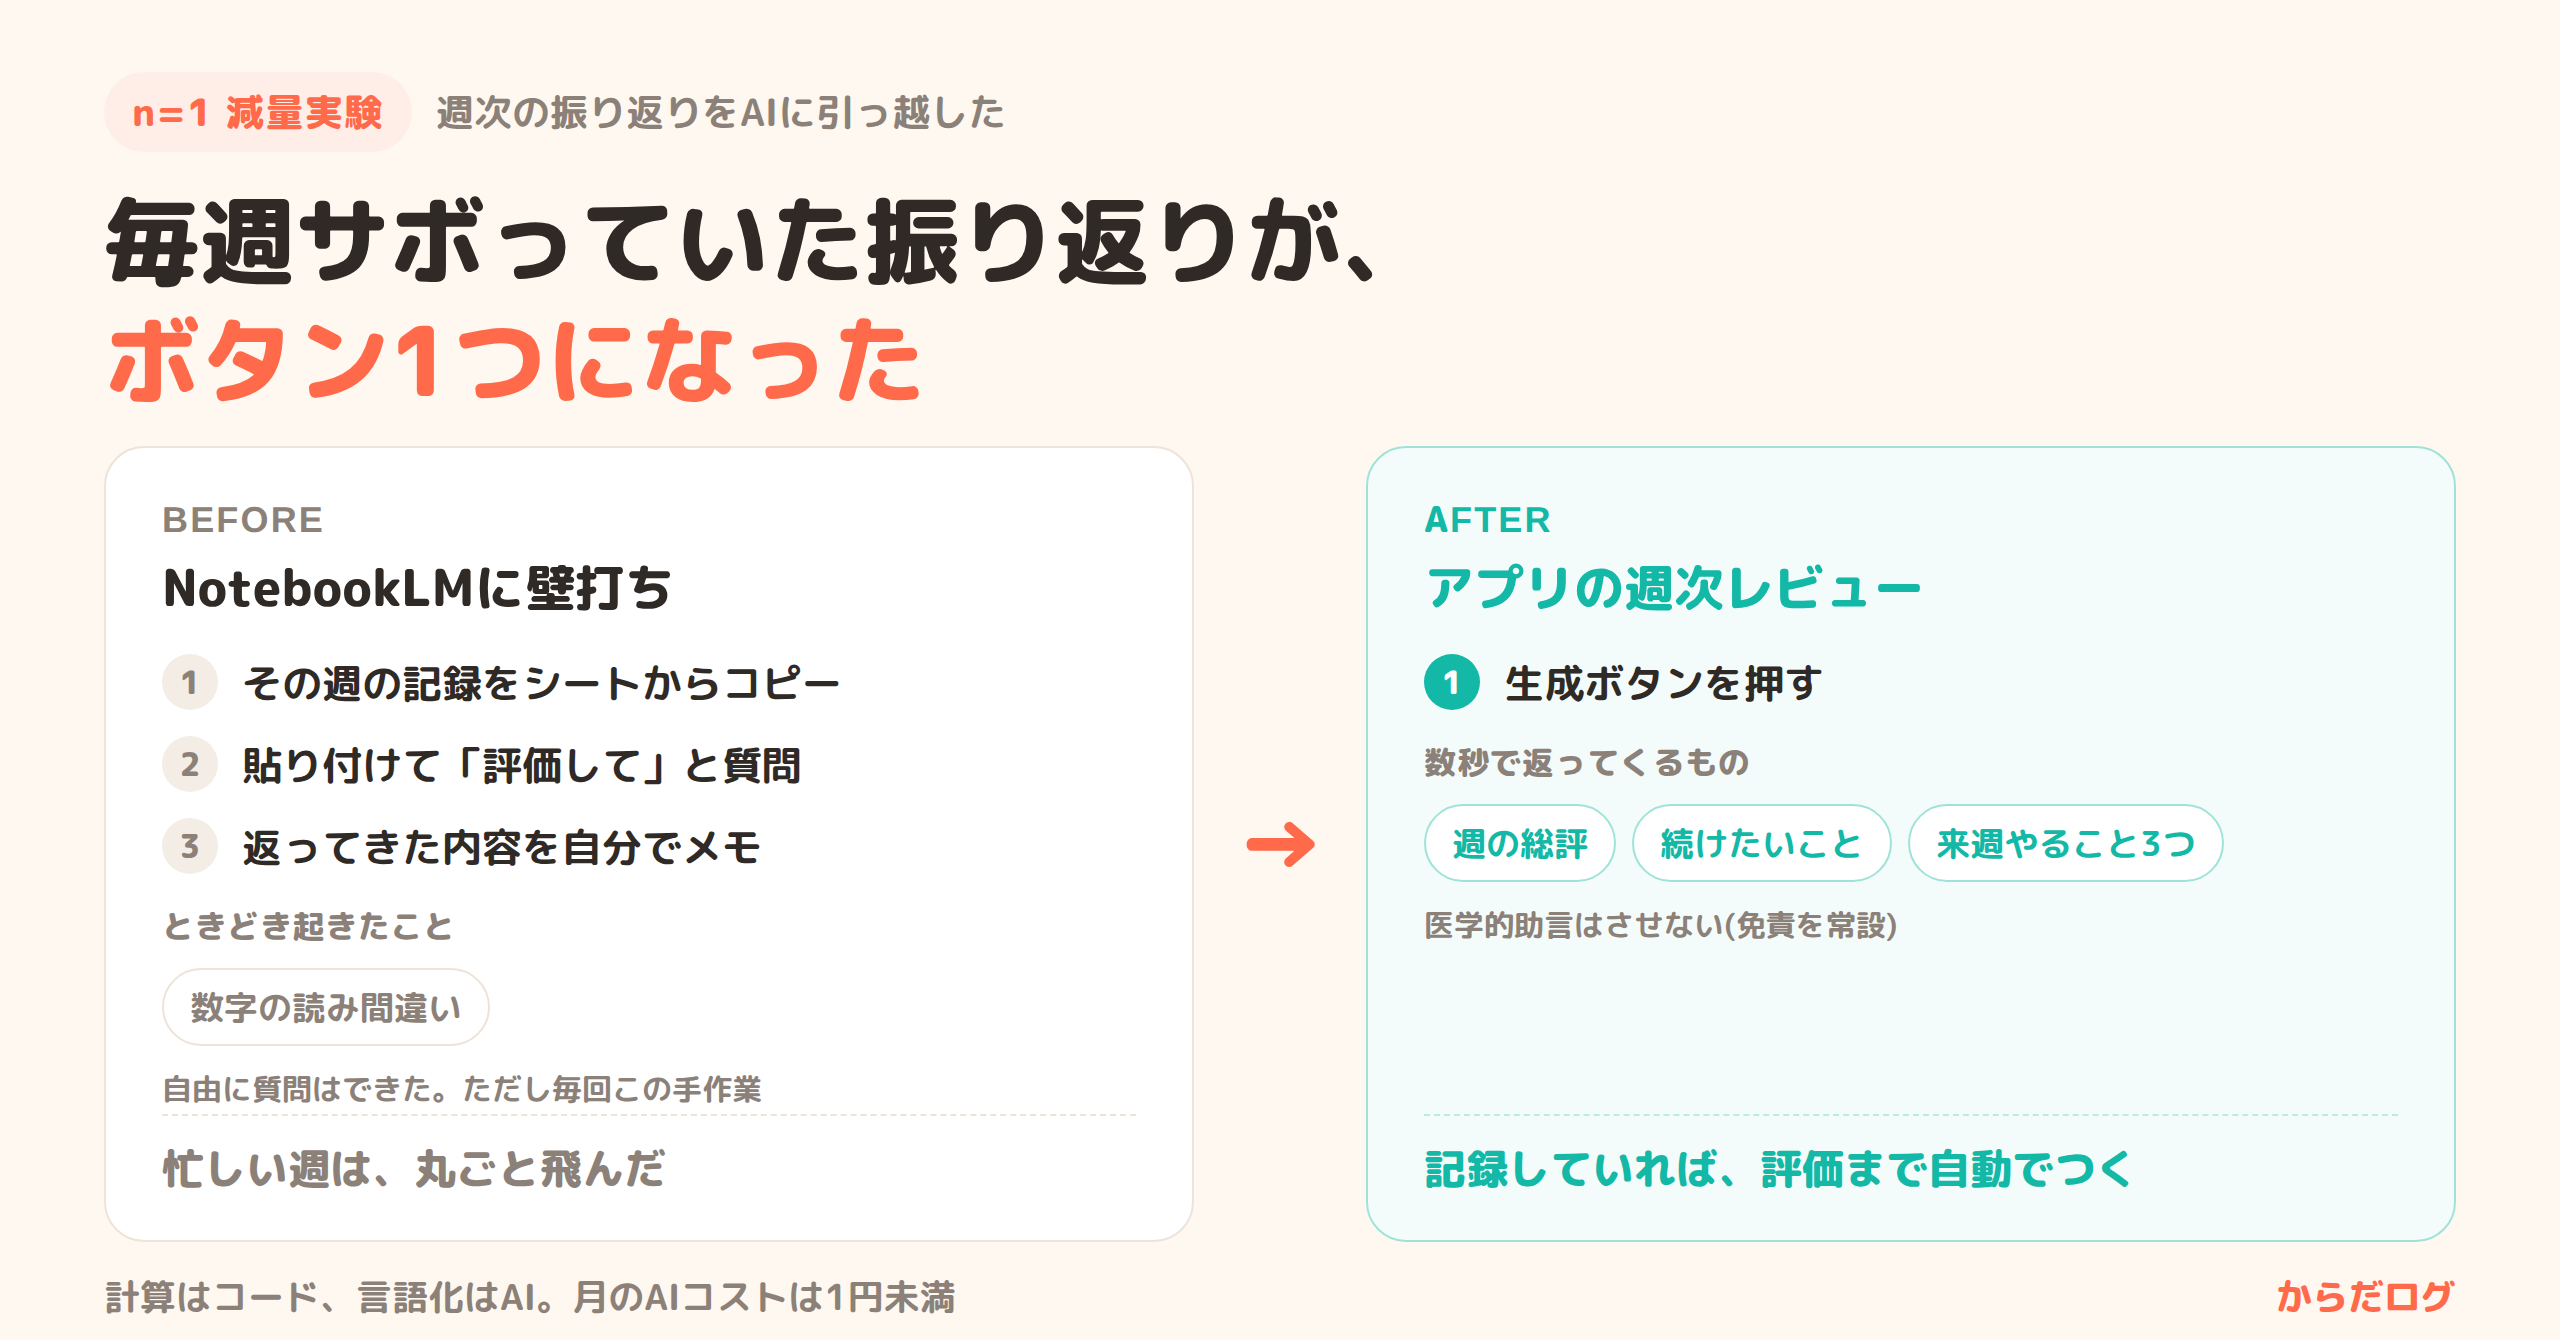
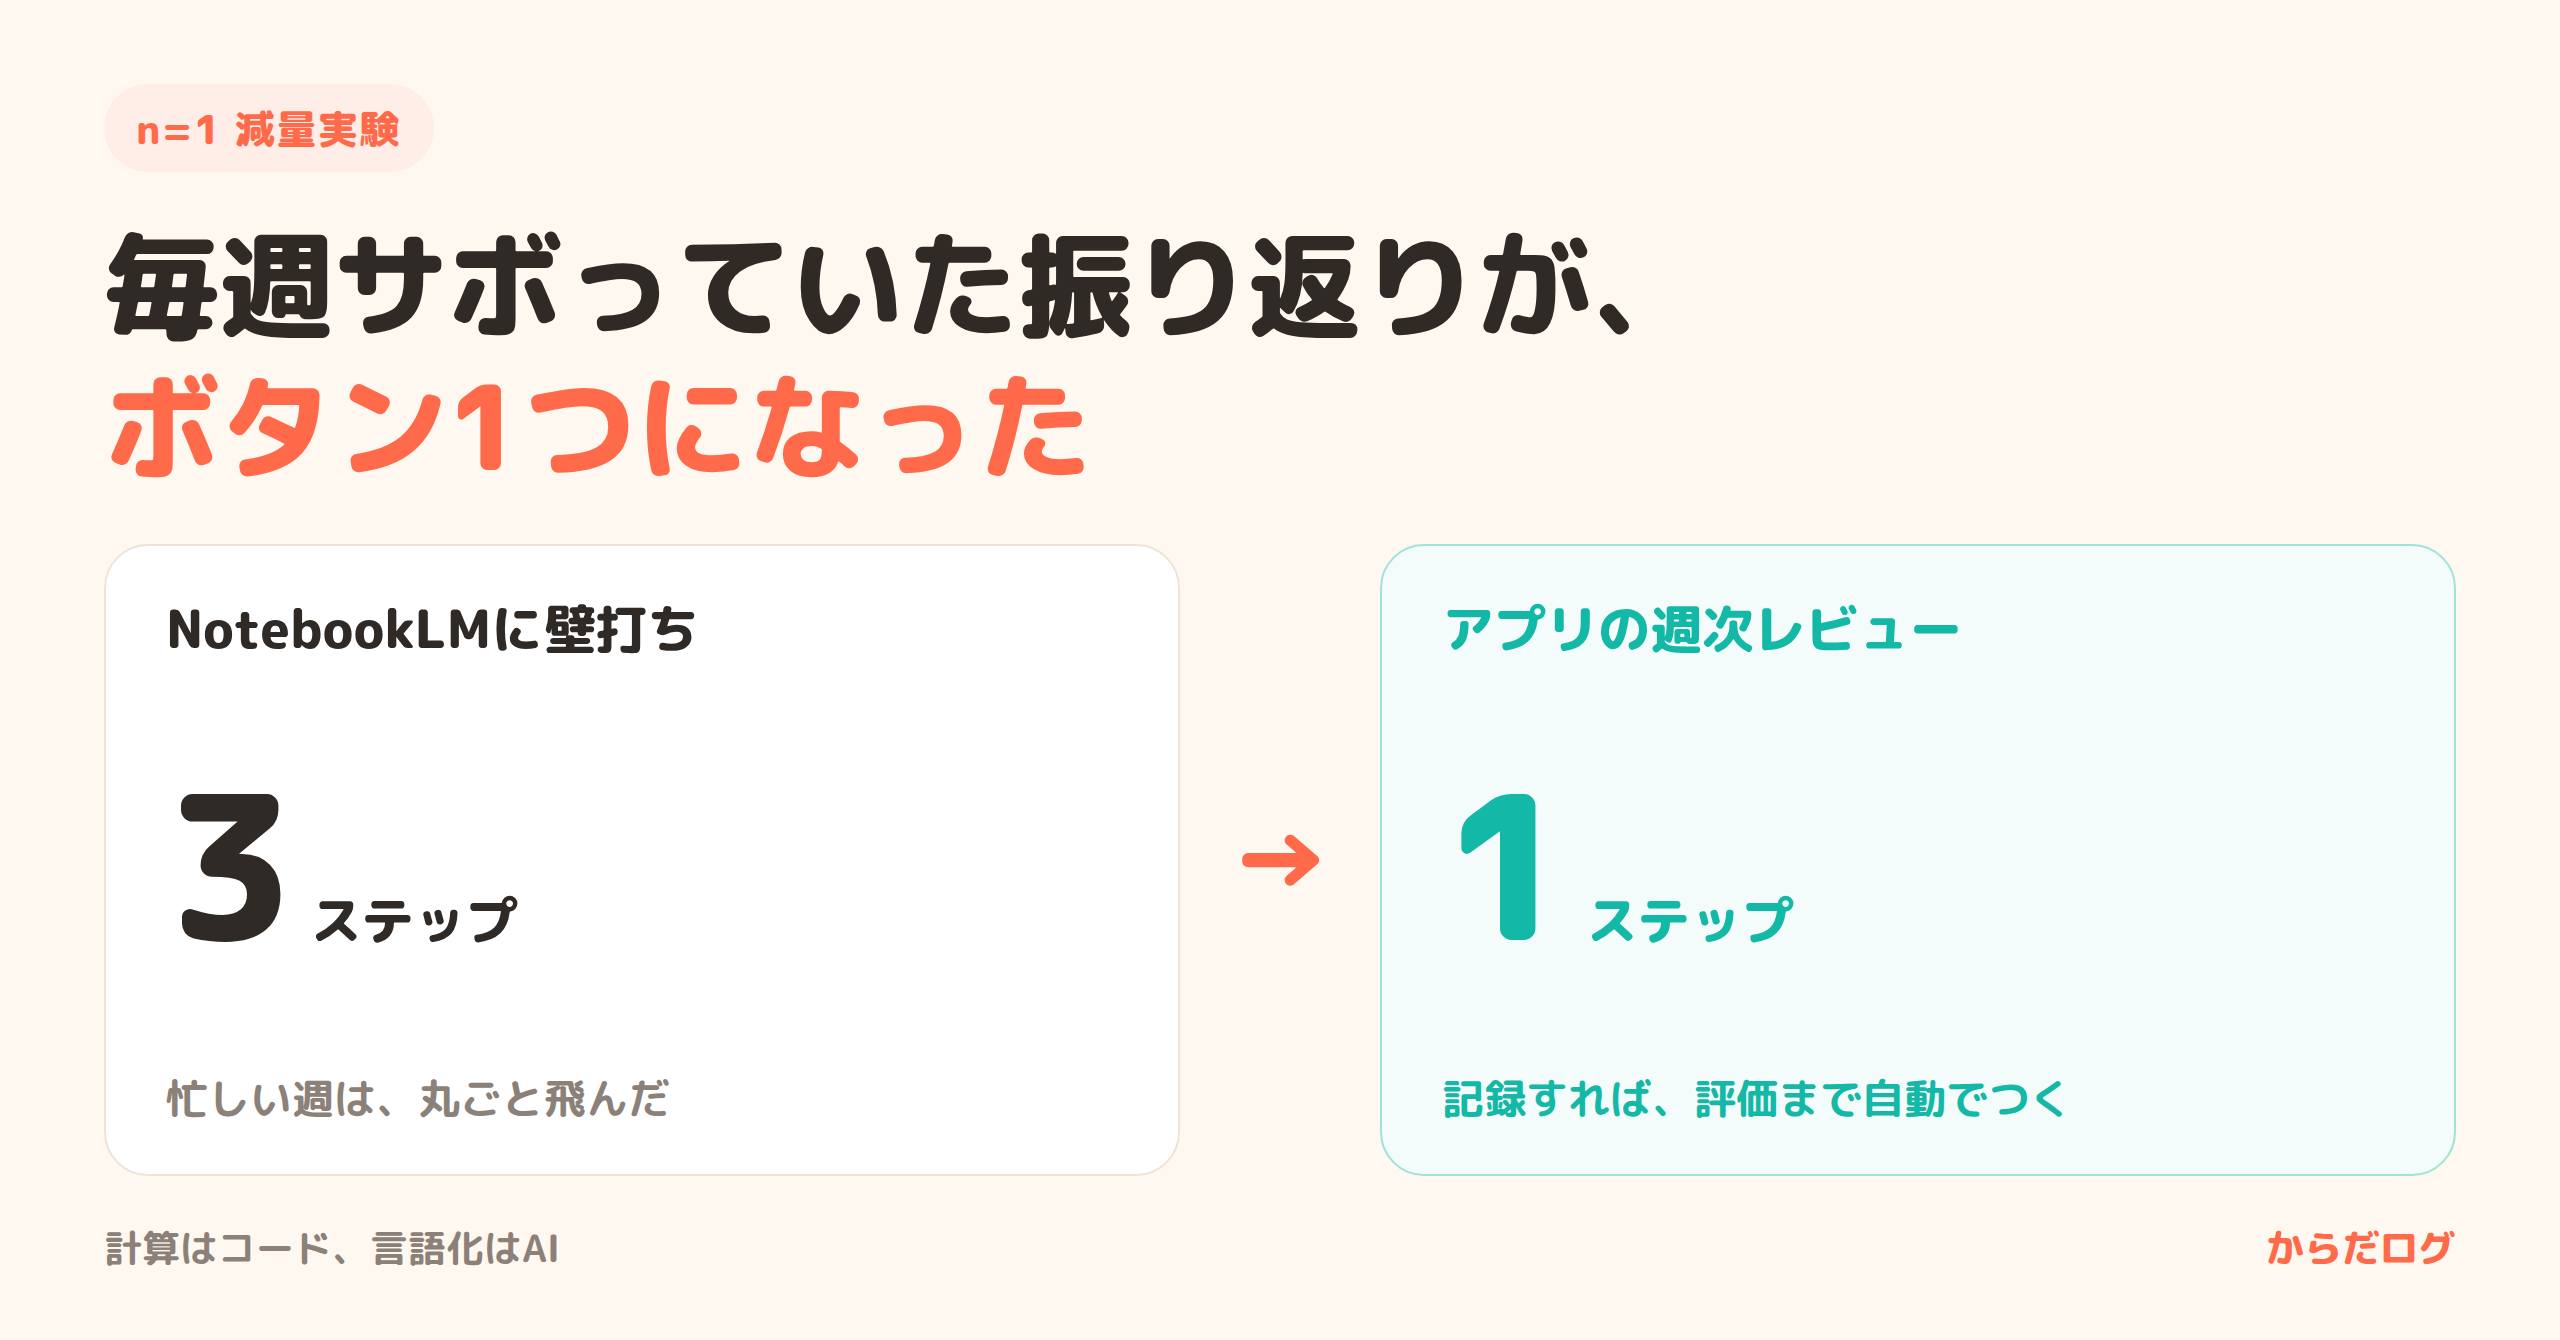
note目次案#3のサムネイルを簡素化する
初稿は手順3行・返ってくるもののチップ・免責の注記まで盛り込んでいたが、
文字が多く一覧表示で読めないため、残すのを「3ステップ → 1ステップ」の
対比だけにした。手数の数字を100pxで主役に据え、手順の中身は本文に譲る。

あわせて、サムネイルの情報量の目安をREADMEに残した: 縮小して読めるのは
見出しと大きな数字1組だけと考えてそれ以外は削る。余白が空いたときは
情報を足すのではなく見出しと数字を大きくして埋める(情報を足す方向で
作ったところフッターが押し出されて切れた)。

Claude-Session: https://claude.ai/code/session_01WBqd7A7RvRStXMQ76HUn4E

diff --git a/articles/README.md b/articles/README.md
@@ -178,4 +178,4 @@ Zennの技術記事は、バズ(はてブ・トレンド)の一発より、**具
 - 2026-08-05: note06のサムネイル(`note06_サムネ.png`、1280×670・2倍解像度)を作成。「その数字が正しければ、77日で何kg減るはずだったか」の4行比較(Garmin 9.0kg / 計算式 3.7kg / 逆算 2.5kg / 実際 2.49kg)で、棒の長さをkgに比例させ、実際の体重変化だけをティールで反転表示した — 逆算値の棒と実際の棒がぴったり重なることが画像だけで伝わる構成。既定フォーマットどおりM PLUS Rounded 1cのサブセットwoff2をbase64埋め込みし、Playwrightで書き出した(`document.fonts.size` が3であることを確認済み)。Xの署名アイコンはnoteサムネには入れない方針どおり省いた。**この環境ではPlaywrightのバンドル版ブラウザのバージョンが合わないため、`chromium.launch({ executablePath: '/opt/pw-browsers/chromium' })` で既設のChromiumを指定する必要がある**(`npx playwright install` は実行しない)
 - 2026-08-05: **note目次案#3・#4の公開スケジュールを決定**(上記「公開スケジュール」節)。ストック記事は木曜・週次レポートは月曜に固定し、#3(AIコーチ移行)は既定の8/6(木)、#4(実測TDEE)は8/20(木)とした。#4を8/13にしなかったのは、8月のストック記事が3本になり「月1〜2本を上限」の運用ルールを超えるため。以降の需要検証は9/3・9/17、ゲート判定は10/1頃。あわせて、実測TDEE記事のファイル番号が PR #157 の `note05_AIコーチ移行_下書き.md`(2026-08-03作成)と衝突していたため、先着のPR #157側を維持して `note06_実測TDEE_下書き.md`・`note06_サムネ.png` に繰り下げた(目次案上の位置づけ note#4 は変更なし)。**8/6が成立するかは、PR #157のマージ・サムネイル作成・タイトル確定が間に合うか次第**
 - 2026-08-05: **需要検証2本目・3本目のネタを決定し、目次案#5(クロス分析)を検証の枠から外した**(上記「需要検証2本目・3本目のネタ」)。#5は睡眠×食事・飲酒×食事の話で読み物としては成立するが、課金候補(増減量サイクル層)に対して1本目のような「信じている数字が違う」型の切迫感が無く、検証記事としては弱いと判断した(目次案には時期未定で残す)。代わりに、実データで裏の取れた2本を充てる: 2本目「停滞期の正体」(停滞した2週間は歩数が過去最多の18,064歩で、摂取が1日121kcal増えていた。代謝適応でも運動不足でもなかった)、3本目「週1判断の危うさ」(週次逆算TDEEが1,572〜3,447・標準偏差530で振れる中、毎週の数字で食事を調整することの意味)。3本が同じ結論に見えないよう、読者が持ち帰る「次にやること」をずらす方針も併記した
-- 2026-08-05: **note目次案#3(AIコーチ移行)のサムネイルを作成**(`note05_サムネ.png`、1280×670・2倍解像度)。記事の核が「3ステップのコピペ作業 → ボタン1つ」であるため、before(NotebookLMに壁打ち)/after(アプリの週次レビュー)の左右対比を主役にした。初回はafter側が1ステップしかなく間延びしたため、READMEの「余白を足すのではなく情報を足す」に従い、after側に返ってくるもの(週の総評/続けたいこと/来週やること3つ)と免責の常設、before側に「数字の読み間違い」「自由に質問はできたが毎回手作業」を足して埋めた(いずれも下書き本文にある事実)。**書き出しスクリプトに、`document.body.scrollHeight` が670を超えていないか・フッターが画面内にあるかの検査を追加した** — 中身を足していくとフッターが押し出されて黙って切れるため。**下書き本体(`note05_AIコーチ移行_下書き.md`)はPR #157のブランチにあるため、そちらのTODO「サムネイルを作成する」はPRマージ後にチェックを外すこと**
+- 2026-08-05: **note目次案#3(AIコーチ移行)のサムネイルを作成**(`note05_サムネ.png`、1280×670・2倍解像度)。記事の核が「3ステップのコピペ作業 → ボタン1つ」なので、before(NotebookLMに壁打ち)/after(アプリの週次レビュー)の左右対比にし、**手数の「3」と「1」を100pxの数字で主役に据えた**。初稿では手順3行・返ってくるもののチップ・免責の注記まで盛り込んだが、**文字が多すぎて一覧表示で読めない**と判断し、サムネイルに残すのは「3 → 1」だけにして手順の中身は本文に譲った(2026-08-05、本人指摘)。**サムネイルの情報量の目安**: 一覧では冒頭が小さく表示されるため、**縮小しても読めるのは見出しと大きな数字1組だけ**と考え、それ以外は削る。余白が空くなら情報を足すのではなく、見出しと数字を大きくして埋める(先に情報を足す方向で作ったところ、フッターが押し出されて黙って切れた)。**書き出しスクリプトに `document.body.scrollHeight` が670を超えていないか・フッターが画面内にあるかの検査を追加した**。**下書き本体(`note05_AIコーチ移行_下書き.md`)はPR #157のブランチにあるため、そちらのTODO「サムネイルを作成する」はPRマージ後にチェックを外すこと**
